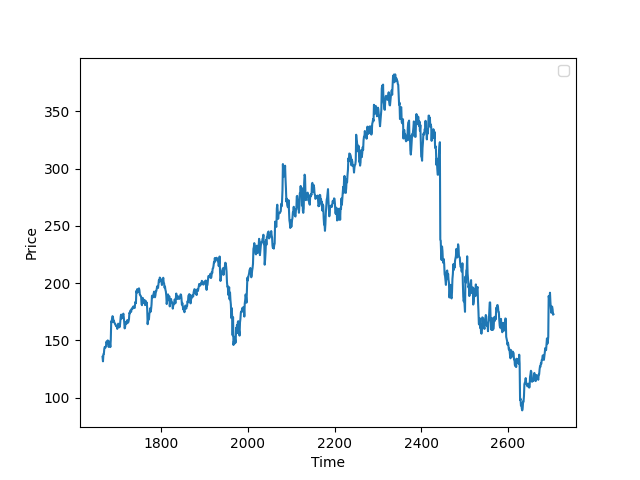
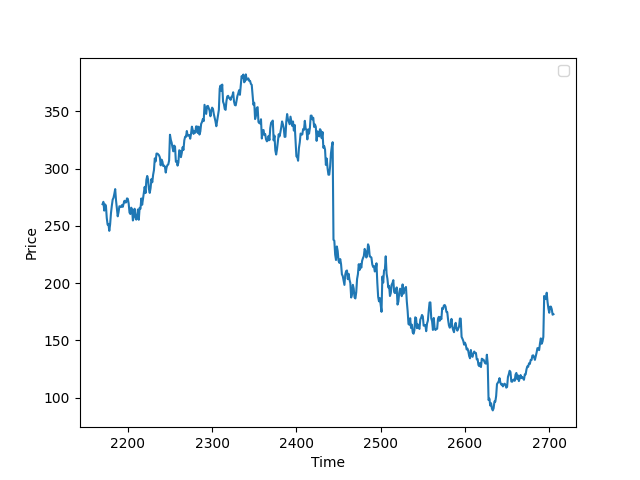
added rmse and forecasting

diff --git a/src/templates/result.html b/src/templates/result.html
@@ -33,5 +33,25 @@
    </div>
    <img src={{ url2}} alt="Chart" height="400" width="400">
    <img src={{ url1}} alt="Chart" height="400" width="400">
+   <div>
+      <p>{{forecast[0][0]}}</p>
+      <p>TOMORROW'S {{name}} CLOSING PRICE</p>
+   </div>
+   <div>
+      <p>{{rmse}}</p>
+      <p>LSTM MODEL RMSE</p>
+   </div>
+   <div>
+      <h1>Predictions for next 7 days</h1>
+      <table>
+         <tbody>
+            {% for item in forecast %}
+               <tr>
+                  <td>{{item[0]}}</td>
+               </tr>
+            {% endfor %}
+         </tbody>
+      </table>
+   </div>
 </body>
 </html>

diff --git a/src/app.py b/src/app.py
@@ -3,6 +3,8 @@ import pandas as pd
 import numpy as np
 import datetime as dt
 import yfinance as yf
+import math
+from sklearn.metrics import mean_squared_error
 import matplotlib
 matplotlib.use('Agg')
 import matplotlib.pyplot as plt
@@ -54,10 +56,27 @@ def predict():
         y_predicted = scaler.inverse_transform(y_predicted)
         y_test = y_test.reshape(-1,1)
         y_test = scaler.inverse_transform(y_test)
+        rmse = math.sqrt(mean_squared_error(y_test,y_predicted))
         year = dt.date.today().year
-        d = dt.datetime(year-4,1,2)
+        d = dt.datetime(year-2,1,4)
         df2 = df[df['Date'] == d]
+        print(df2)
         ind = df2.index[0]
+
+        last_100_days = data_testing.tail(100)
+        inp_data = scaler.fit_transform(last_100_days)
+        x_forecast = []
+        for i in range(100, inp_data.shape[0]+1):
+            x_forecast.append(inp_data[i-100:i])
+        x_forecast = np.array(x_forecast)
+        for i in range (0,7):
+            y_forecast= model.predict(x_forecast)
+            temp = np.asarray(y_forecast[-1]).reshape(1,1)
+            x_temp = x_forecast[len(x_forecast)-1][1:100]
+            x_temp=np.append(x_temp,temp,axis=0)
+            x_temp = np.asarray(x_temp).reshape(1,100,1)
+            x_forecast = np.append(x_forecast,x_temp,axis=0)
+        y_forecast = scaler.inverse_transform(y_forecast)
         plt.clf()
         plt.figure()
         plt.plot(df['Close'][ind:int(len(df))])
@@ -73,5 +92,5 @@ def predict():
         plt.ylabel('Price')
         plt.legend()
         plt.savefig('C:/Users/Dell/OneDrive/Desktop/DST project/src/static/images/new_plot.png')
-        return render_template("result.html", url1 ='/static/images/new_plot.png', url2 ='/static/images/new_plot1.png', open = open, high = high, low = low, close = close, adj_close=adj_close, volume=volume)
+        return render_template("result.html", name = params, url1 ='/static/images/new_plot.png', url2 ='/static/images/new_plot1.png', open = open, high = high, low = low, close = close, adj_close=adj_close, volume=volume, rmse = rmse, forecast = y_forecast)
 app.run(host='0.0.0.0') 
